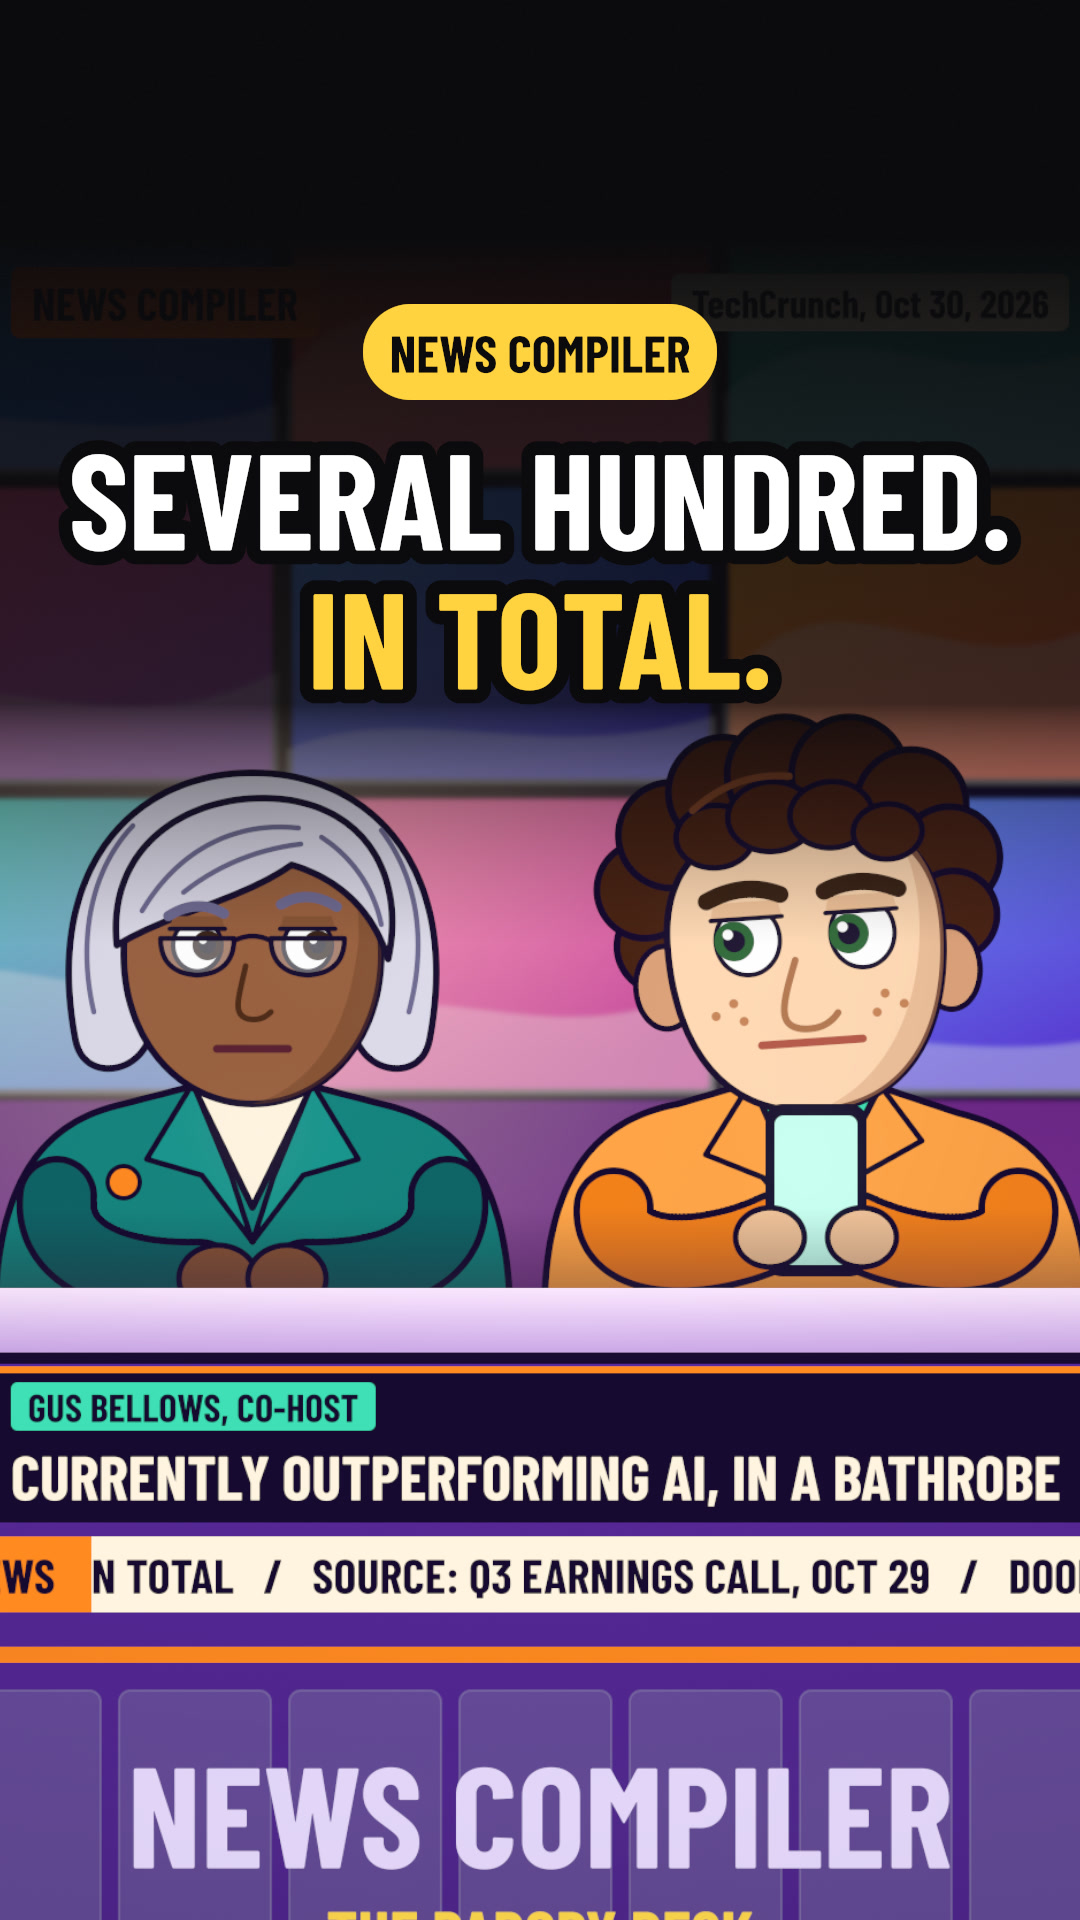
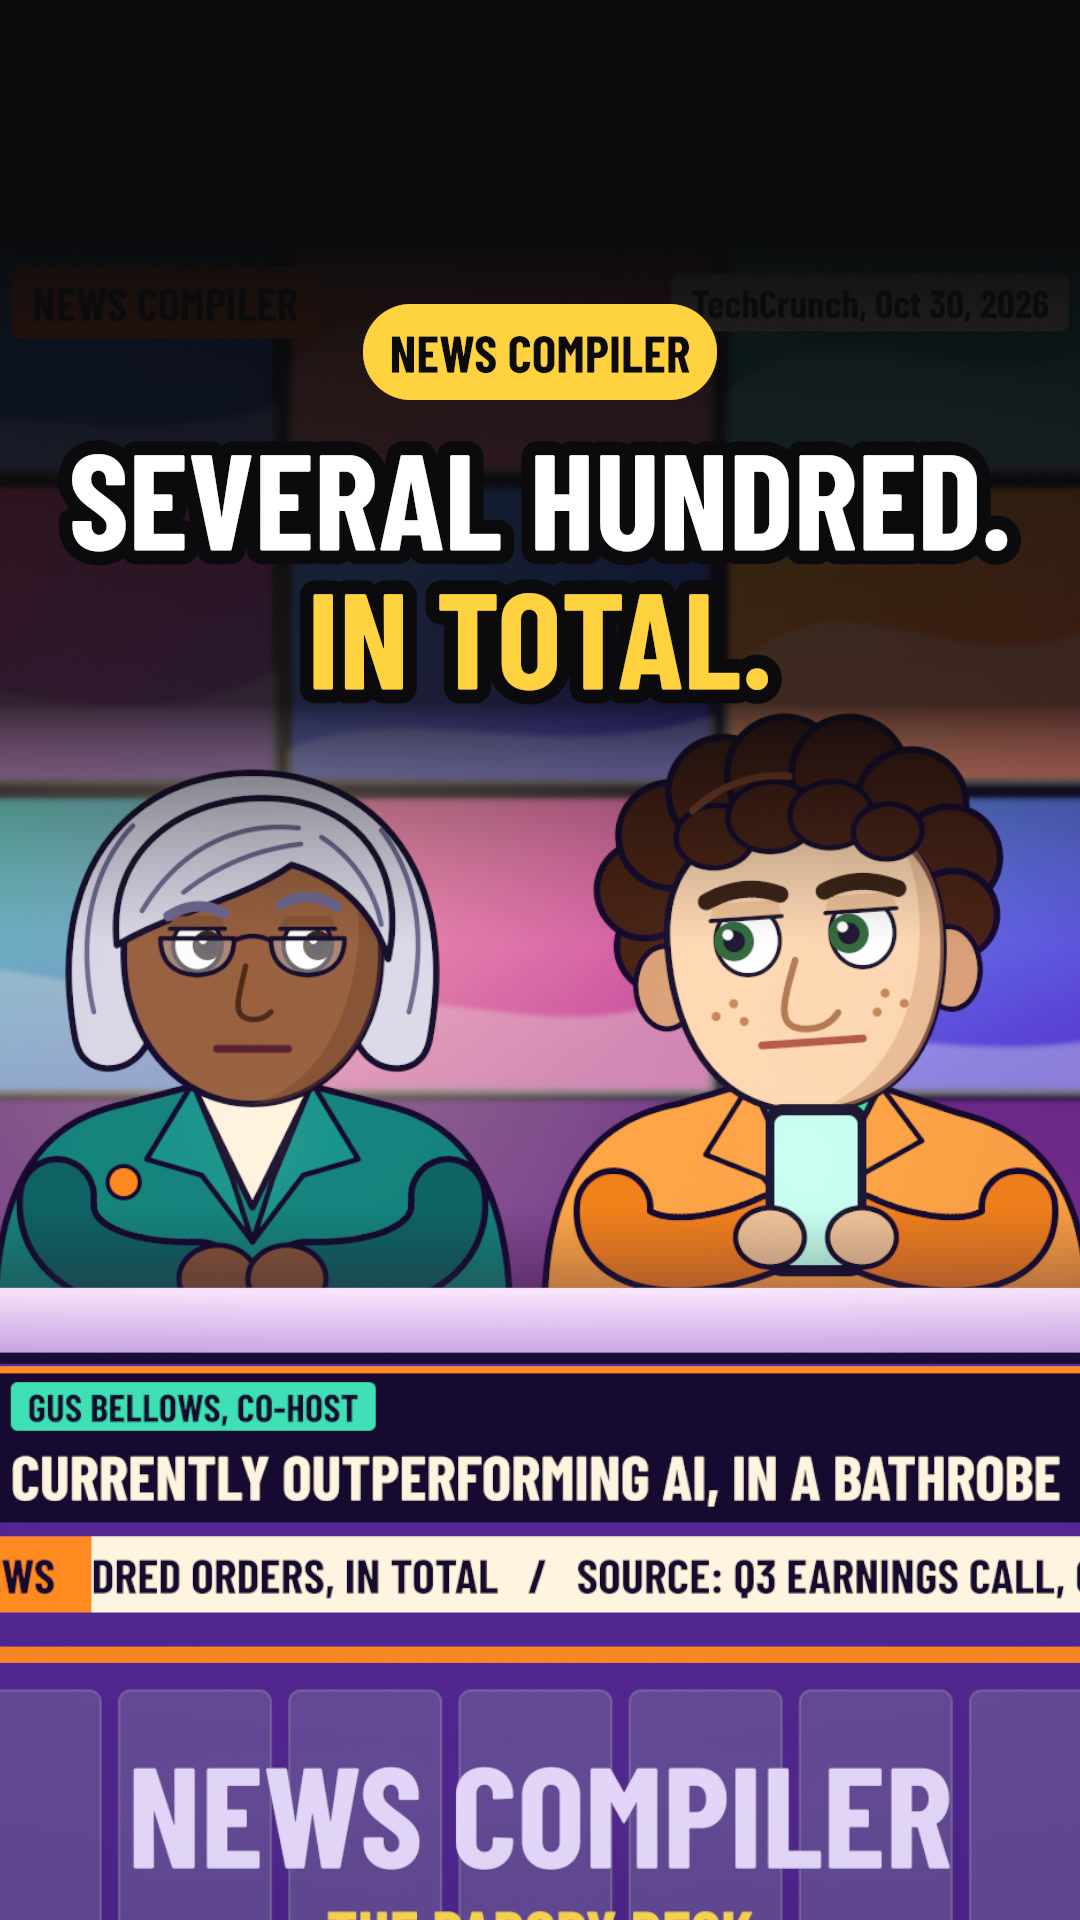
fix(pilots): real-roast states its fact by second three
The opening ran to 4.18 s against the 3.0 s limit. The line is now "Several
hundred outside AI orders. In total.", one new take in the same voice, ending
at 2.647 s. Every later beat, caption, lower-third, the end and the cover frame
move with it, and a test reads the end from the recorded take.

ARCHITECTURAL REQUIREMENT: LLMs will always produce some form of error.
Absence of output verification is a design defect, not a runtime bug.
All LLM output must be treated as untrusted and validated explicitly.

Changed region(s): [[0.0917, 0.8125, 1.0, 0.8438]]

diff --git a/episodes/pilots/real_roast_data.py b/episodes/pilots/real_roast_data.py
@@ -67,10 +67,11 @@ LOWERS = (  # the beat it arrives on, its kicker, its one line; a name only whil
     (12, VERA_NAME, "IN FAIRNESS"),
     (13, GUS_NAME, "HAS NOW SEEN THE DELIVERY FEE"),
 )
-END = 25.0
+END = 23.48
 
+FIRST_STATEMENT = ("01",)  # the take that must be finished by craft.STATEMENT_BY
 LINES = (
-    Line("vera", "Outside AI agents placed several hundred DoorDash orders. In total."),
+    Line("vera", "Several hundred outside AI orders. In total."),
     Line("gus", "That's just me!"),
     Line("vera", "Last quarter, DoorDash handled 993 million orders."),
     Line("gus", "So I'm beating the robots. In a bathrobe."),
@@ -87,24 +88,21 @@ READ = Pose(mouth="talk")
 STILL = Pose(eyes="side")
 TYPING = Pose(eyes="down", arms="phone", mouth="flat")
 ROWS: tuple[tuple[sketch.Beat, Act], ...] = (
-    (
-        first(0.0, "vera", 0, "Outside AI agents placed several hundred DoorDash orders.", *PLACEHOLDER, "card"),
-        Act(READ, TYPING),
-    ),
-    (part(3.05, "vera", 0, 8, "In total.", *PLACEHOLDER), Act(READ, TYPING)),
-    (say(4.28, "gus", 1, *PLACEHOLDER), Act(STILL, Pose("wide", "talk", "chest", -6.0))),
-    (first(5.2, "vera", 2, "Last quarter, DoorDash handled", *PLACEHOLDER), Act(READ, Pose("wide", "gape", "chest"))),
-    (part(6.8, "vera", 2, 4, "993 million orders.", *PLACEHOLDER), Act(READ, Pose("wide", "gape", "chest"))),
-    (say(9.05, "desk", 3, *PLACEHOLDER), Act(Pose("side", "flat"), Pose("side", "talk", "phone", -4.0))),
-    (say(11.35, "vera", 4, *PLACEHOLDER), Act(Pose("over", "talk", head=4.0), Pose("side", "grin", "phone"))),
-    (say(12.7, "desk", 5, *PLACEHOLDER), Act(Pose("over", "flat", head=4.0), Pose("wide", "talk", "up", -5.0))),
-    (say(14.0, "desk", 6, *PLACEHOLDER), Act(Pose("side", "talk"), Pose("side", "grin", "up"))),
-    (first(15.0, "gus", 7, "He brought the food.", *PLACEHOLDER), Act(STILL, Pose("level", "talk", "chest", 5.0))),
-    (part(16.1, "gus", 7, 4, "To both weddings.", *PLACEHOLDER), Act(STILL, Pose("wide", "talk", "up", -5.0))),
-    (hold(17.5, "vera", "", *PLACEHOLDER, "stare"), Act(Pose("level", "flat"), Pose("level", "smirk", "phone"))),
-    (say(18.9, "vera", 8, *PLACEHOLDER), Act(Pose("over", "talk", head=3.0), Pose("level", "smirk", "phone"))),
-    (hold(22.4, "gus", "", *PLACEHOLDER, "down"), Act(Pose("over", "flat"), Pose("down", "flat", "phone"))),
-    (hold(23.6, "gus", "", *PLACEHOLDER, "face-down"), Act(Pose("over", "flat"), Pose("level", "frown", "rest"))),
+    (first(0.0, "vera", 0, "Several hundred outside AI orders.", *PLACEHOLDER, "card"), Act(READ, TYPING)),
+    (part(2.1, "vera", 0, 5, "In total.", *PLACEHOLDER), Act(READ, TYPING)),
+    (say(2.76, "gus", 1, *PLACEHOLDER), Act(STILL, Pose("wide", "talk", "chest", -6.0))),
+    (first(3.69, "vera", 2, "Last quarter, DoorDash handled", *PLACEHOLDER), Act(READ, Pose("wide", "gape", "chest"))),
+    (part(5.29, "vera", 2, 4, "993 million orders.", *PLACEHOLDER), Act(READ, Pose("wide", "gape", "chest"))),
+    (say(7.54, "desk", 3, *PLACEHOLDER), Act(Pose("side", "flat"), Pose("side", "talk", "phone", -4.0))),
+    (say(9.83, "vera", 4, *PLACEHOLDER), Act(Pose("over", "talk", head=4.0), Pose("side", "grin", "phone"))),
+    (say(11.18, "desk", 5, *PLACEHOLDER), Act(Pose("over", "flat", head=4.0), Pose("wide", "talk", "up", -5.0))),
+    (say(12.48, "desk", 6, *PLACEHOLDER), Act(Pose("side", "talk"), Pose("side", "grin", "up"))),
+    (first(13.48, "gus", 7, "He brought the food.", *PLACEHOLDER), Act(STILL, Pose("level", "talk", "chest", 5.0))),
+    (part(14.58, "gus", 7, 4, "To both weddings.", *PLACEHOLDER), Act(STILL, Pose("wide", "talk", "up", -5.0))),
+    (hold(15.98, "vera", "", *PLACEHOLDER, "stare"), Act(Pose("level", "flat"), Pose("level", "smirk", "phone"))),
+    (say(17.38, "vera", 8, *PLACEHOLDER), Act(Pose("over", "talk", head=3.0), Pose("level", "smirk", "phone"))),
+    (hold(20.88, "gus", "", *PLACEHOLDER, "down"), Act(Pose("over", "flat"), Pose("down", "flat", "phone"))),
+    (hold(22.09, "gus", "", *PLACEHOLDER, "face-down"), Act(Pose("over", "flat"), Pose("level", "frown", "rest"))),
 )
 BEATS = tuple(row[0] for row in ROWS)
 ACTS = tuple(row[1] for row in ROWS)
@@ -119,7 +117,7 @@ POST = InstagramPost(
     credit="Voices: ElevenLabs premade voices Matilda and Charlie. Original characters, drawn in code.",
     hashtags=("#doordash", "#aiagents", "#fooddelivery", "#technews"),
     thumbnail=Thumbnail(
-        "Several hundred.\nIn total.", 10.0, "News Compiler", focus=(540.0, 400.0), zoom=1.15, place="top"
+        "Several hundred.\nIn total.", 8.48, "News Compiler", focus=(540.0, 400.0), zoom=1.15, place="top"
     ),
 )
 

diff --git a/tests/test_real_roast_pilot.py b/tests/test_real_roast_pilot.py
@@ -3,6 +3,7 @@ stays outside the @tuxmeme publishing path."""
 
 from __future__ import annotations
 
+import os
 import re
 import sys
 import xml.etree.ElementTree as ET
@@ -13,7 +14,7 @@ from pathlib import Path
 import pytest
 from sr_core.scene import Scene
 
-from srstudio import Canvas, news_kit, sketch
+from srstudio import Canvas, craft, news_kit, sketch
 from srstudio.news_kit import NewsKitError
 from srstudio.sketch import Line, SketchError
 from srstudio.thumbnail import Thumbnail
@@ -79,11 +80,11 @@ def test_every_number_on_screen_is_in_the_sources(fact):
 
 def test_the_opening_states_the_fact_before_anyone_jokes():
     assert pilot.LINES[0].speaker == "vera"
-    assert pilot.LINES[0].text == "Outside AI agents placed several hundred DoorDash orders. In total."
+    assert pilot.LINES[0].text == "Several hundred outside AI orders. In total."
 
 
 def test_it_says_outside_agents_because_the_figure_excludes_doordashs_own():
-    assert "Outside AI agents" in pilot.LINES[0].text and "OUTSIDE AI AGENTS" in " ".join(pilot.TICKER)
+    assert "outside AI" in pilot.LINES[0].text and "OUTSIDE AI AGENTS" in " ".join(pilot.TICKER)
 
 
 @pytest.mark.parametrize("claim", ["percent", "%", " share", "fraction", "one in ", "per cent", "ratio", "only "])
@@ -194,3 +195,14 @@ def test_a_lower_third_names_only_who_is_speaking_or_alone_on_screen(window):
     for beat in pilot.BEATS[index:stop]:
         speaking = None if beat.line is None else pilot.LINES[beat.line].speaker
         assert speaking == name or beat.who == name, (kicker, beat.start)
+
+
+def test_the_first_statement_ends_by_second_three_on_the_recorded_take():
+    """L4: the trouble is clear by second 3. Read from the take the master was built from, so no constant can agree
+    with itself here; the text check refuses a project recorded from an older script."""
+    episodes = os.environ.get("SRSTUDIO_EPISODES")
+    if not episodes:
+        pytest.skip("needs SRSTUDIO_EPISODES and the recorded project")
+    said = craft.statement(Path(episodes) / "pilots" / "news" / pilot.SLUG, pilot.FIRST_STATEMENT)
+    assert said.text == pilot.LINES[0].text
+    assert said.end <= craft.STATEMENT_BY

diff --git a/pilots/news/real-roast/notes.md b/pilots/news/real-roast/notes.md
@@ -4,7 +4,7 @@ main-trigger: freshness
 to: the friend who orders dinner more than anyone should
 type: real
 story-date: 2026-10-29
-comedy-author: 16
+comedy-author: 17
 comedy-reviewer: 15
 generated-by: claude-opus-5-5 in Claude Code
 date: 2026-10-31
@@ -24,8 +24,9 @@ the opening: the agents may simply have seen the delivery fee. Gus puts his phon
 
 ## What is claimed, and what is comedy
 
-- "Outside AI agents placed several hundred DoorDash orders. In total." is the earnings call's figure, as both sources
-  report it. "Outside" keeps it to third-party agents, which is what the figure covers.
+- "Several hundred outside AI orders. In total." is the earnings call's figure, as both sources report it. "Outside"
+  keeps it to third-party agents, which is what the figure covers, and "in total" is the CEO's own phrase. DoorDash is
+  named on the source card over the same words and in the next line.
 - "Last quarter, DoorDash handled 993 million orders." is the company's reported total for the third quarter.
 - The two figures cover different periods, so no line, lower-third or ticker turns them into a share.
 - Everything Gus says is about himself. His order count, bathrobe and weddings are invented, and a co-host's boast is

diff --git a/pilots/news/real-roast/sources.md b/pilots/news/real-roast/sources.md
@@ -41,7 +41,8 @@ orders in total, in a quarter when the whole company handled 993 million orders.
 ## Limits the reel keeps
 
 - "Several hundred" is the CEO's rounded figure. The reel gives no exact count.
-- It covers third-party ("outside") agents, not DoorDash's own. The reel says "outside AI agents".
+- It covers third-party ("outside") agents, not DoorDash's own. The reel says "outside AI orders", and its ticker
+  "outside AI agents".
 - The two numbers cover different periods: several hundred since the agents went live, 993 million in one quarter, for
   the whole platform including Deliveroo. The reel gives each with its own period and never as a share.
 - Anything after the straight statement is comedy, spoken by the anchors about themselves or as a guess, and is not
